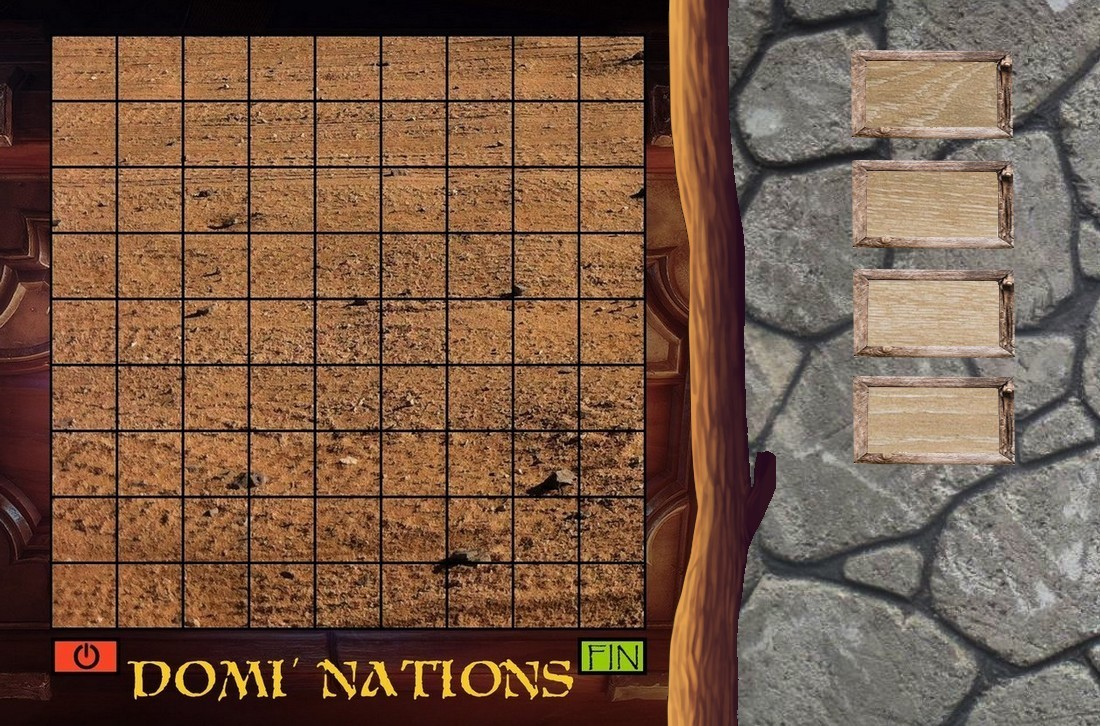
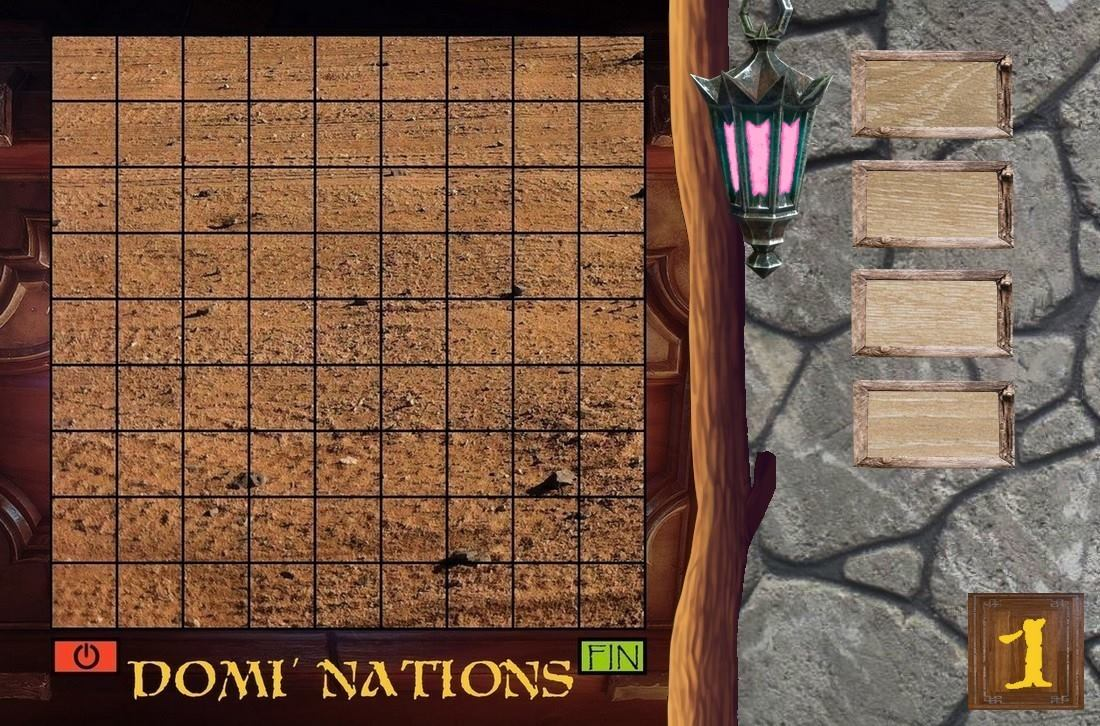
dgfhjklmù

diff --git a/src/ShowPicture.java b/src/ShowPicture.java
@@ -117,6 +117,9 @@ public class ShowPicture {
 		});
 	}
 	public static void showDominos() {
+		frame.remove(label49);
+		frame.revalidate();
+		frame.repaint();
 		for(int i = 0; i <PlayerManager.getNbKing(); i++) {
 			ImageIcon iconchoisie = dominoIcons.get(DominoManager.getSelectedDominosNumbers().get(i)-1);
 			RotatedIcon roticon = new RotatedIcon(iconchoisie, 0.0);
